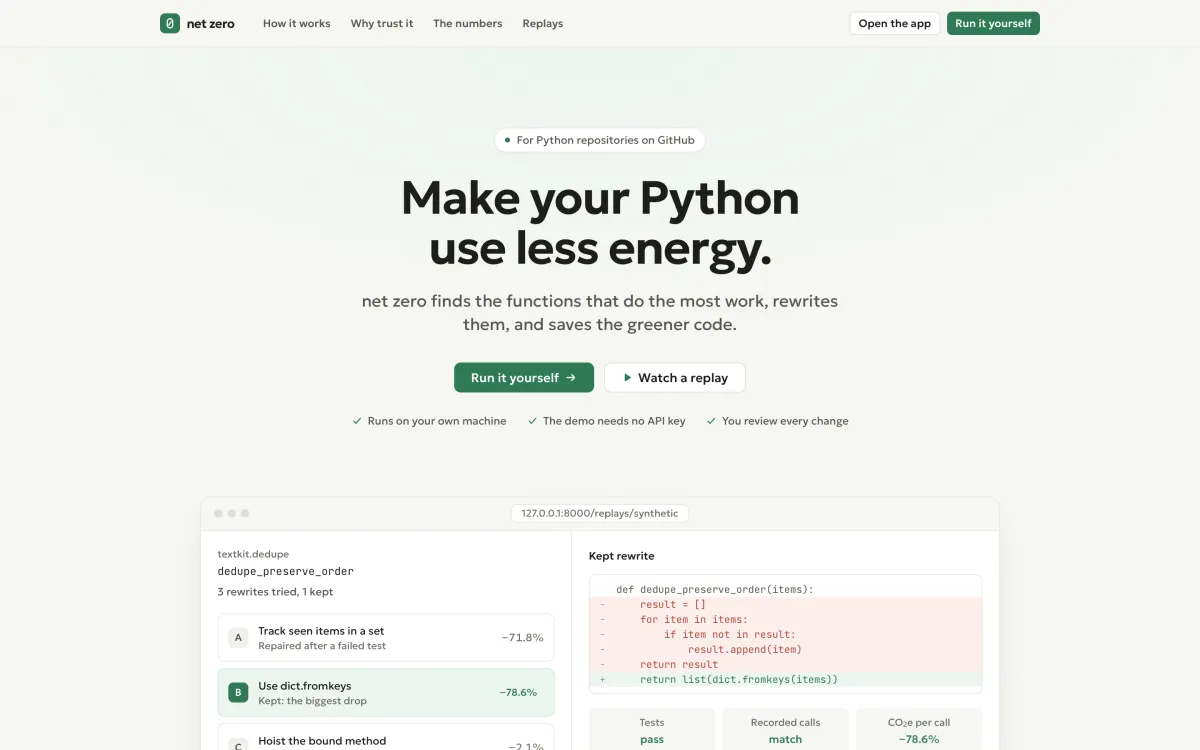
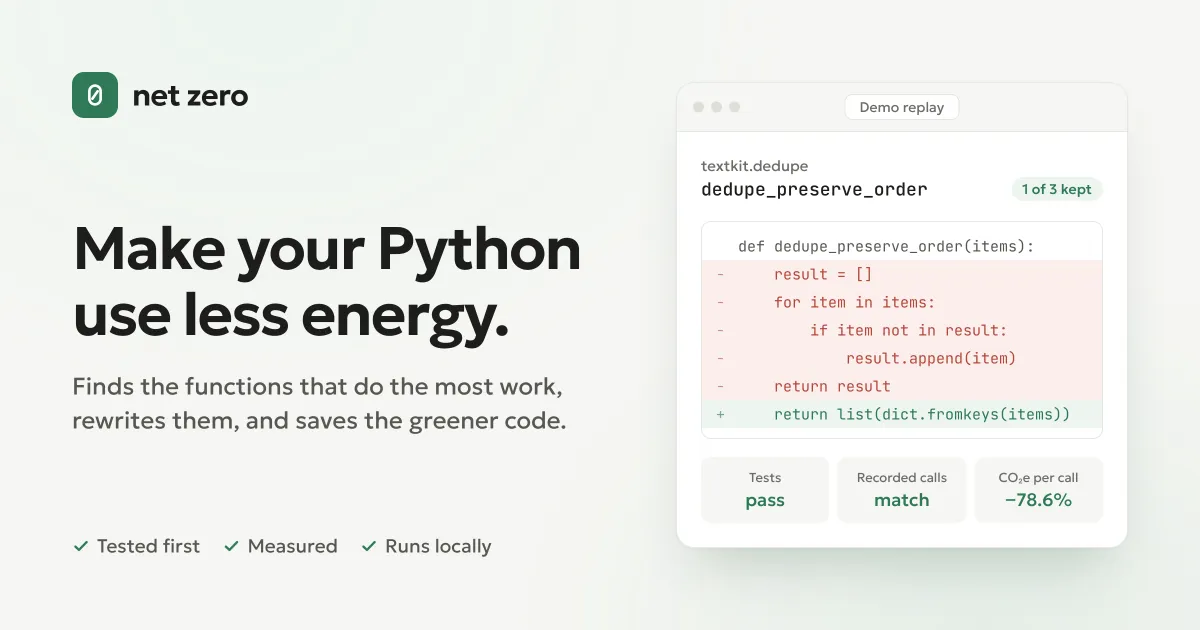
use NetZero's OG card as its picture

diff --git a/public/index.html b/public/index.html
@@ -275,7 +275,7 @@ figcaption { text-align: center; overflow-wrap: break-word; }
     <p><i>Makes your Python use less energy.</i></p>
   </header>
   <figure>
-    <a href="https://netzero.williamragnarsson.dev"><img src="/images/projects/netzero.webp" width="1200" height="750" loading="lazy" alt="The NetZero landing page: “Make your Python use less energy.”, with a replay below it where one function gets three rewrites and the kept one cuts CO2e per call by 78.6%"></a>
+    <a href="https://netzero.williamragnarsson.dev"><img src="/images/projects/netzero.webp" width="1200" height="630" loading="lazy" alt="The NetZero card: “Make your Python use less energy.”, beside a demo replay where a dedupe function is rewritten to one line, the one of three rewrites kept: tests pass, recorded calls match, and CO2e per call is down 78.6%"></a>
     <figcaption><a href="https://netzero.williamragnarsson.dev">https://<wbr>netzero.williamragnarsson.dev</a></figcaption>
   </figure>
   <div class="text">
